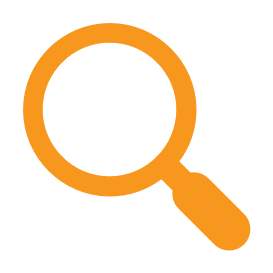
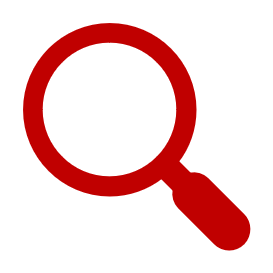
redesigning

Changed region(s): [[0.0586, 0.0586, 0.9377, 0.9377]]

diff --git a/frontend/src/views/LoginView.vue b/frontend/src/views/LoginView.vue
@@ -19,7 +19,7 @@ const login = () => {
     <span class="text"
       >please log in
       <p>to experience the full fun of</p>
-      <p>PongKing</p>
+      <p>christmasballs</p>
     </span>
     <div
       v-if="!userStore.isLoggedIn && !userStore.require2FAVerify"
@@ -63,7 +63,7 @@ const login = () => {
   text-decoration: none;
   border-radius: 20px;
   color: white;
-  background-color: #f8971d;
+  background-color: #c00000;
   padding: 10px;
   align-content: center;
   cursor: pointer;
@@ -78,7 +78,7 @@ body {
   justify-content: center;
   align-items: center;
   min-height: 10vh;
-  background: #f8971d;
+  background: #c00000;
 }
 
 button {
@@ -93,7 +93,7 @@ button {
   font-size: 2vw;
   font-weight: bolder;
   text-decoration: none;
-  background: linear-gradient(160deg, white, grey, grey, black);
+  background: #c00000;
   text-shadow: 0px 0px 2px rgba(0, 0, 0, 0.5);
   transition: 0.3s;
 }
@@ -101,7 +101,7 @@ button {
 button:hover {
   border: 2px outset #ddd;
   color: white;
-  background: linear-gradient(160deg, white, #f8971d, #f8971d, black);
+  background: linear-gradient(160deg, white, #c00000, #c00000, black);
   text-shadow: 0px 0px 4px #202020;
   box-shadow: 0 0 10px #fff, 0 0 40px #fff, 0 0 80px #fff;
   transition-delay: 0.2s;

diff --git a/frontend/src/components/chat/chat/ParentChatComponent.vue b/frontend/src/components/chat/chat/ParentChatComponent.vue
@@ -69,23 +69,24 @@ function sendMsg() {
 .parent {
   display: flex;
   flex-direction: column;
-  border: 1px solid #202020;
+  border: 1px solid gray;
   height: inherit;
   width: 60vw;
 }
 .chatname {
-  color: #f8971d;
+  color: #c00000;
   padding: 1vw;
   font-size: 1vw;
 }
 .messages {
   height: 100%;
-  border-top: 1px solid #202020;
-  border-bottom: 1px solid #202020;
+  border-top: 1px solid gray;
+  border-bottom: 1px solid grey;
   font-size: 1vw;
   padding: 0.5vw;
   overflow-y: scroll;
   overflow-wrap: break-word;
+  color: white;
 }
 .lower {
   display: flex;
@@ -99,7 +100,7 @@ function sendMsg() {
   text-decoration: none;
   border-radius: 5px;
   color: black;
-  background-color: #f8971d;
+  background-color: #c00000;
   font-size: 1vw;
   border-color: transparent;
   cursor: pointer;

diff --git a/frontend/src/components/globalUse/NavbarComponent.vue b/frontend/src/components/globalUse/NavbarComponent.vue
@@ -9,13 +9,8 @@ const userStore = useUserStore();
 <template>
   <div class="column1">
     <router-link to="/" class="columncontent">
-      <img
-        alt="page logo"
-        class="logo"
-        src="@/assets/pongking_boi.svg"
-        height="50"
-      />
-      <span>pongking</span>
+      <img alt="page logo" class="logo" src="@/assets/xmas.png" height="50" />
+      <span>christmasballs</span>
     </router-link>
   </div>
   <div class="column2">
@@ -84,13 +79,13 @@ li {
 }
 li a {
   display: block;
-  color: #f8971d;
+  color: #c00000;
   text-align: center;
   padding: 1% 1%;
   text-decoration: none;
 }
 li a:hover {
-  background-color: #f8971d;
-  color: black;
+  background-color: #c00000;
+  color: white;
 }
 </style>

diff --git a/frontend/src/components/profile/profile/ProfileComponent.vue b/frontend/src/components/profile/profile/ProfileComponent.vue
@@ -120,6 +120,7 @@ UserService.findLeaders()
 <style scoped>
 .title {
   font-size: 2vw;
+  color: white;
 }
 
 .onSwitch {
@@ -149,7 +150,7 @@ UserService.findLeaders()
   padding: 10px 10px 1%;
   border-width: 1px;
   border-style: solid;
-  border-image: linear-gradient(to bottom, white, #f8971d, #f8971d, #202020) 1;
+  border-image: linear-gradient(to bottom, #c00000, #c00000, white, gray) 1;
 }
 
 .infoBox {
@@ -161,7 +162,7 @@ UserService.findLeaders()
 }
 
 .username {
-  color: #f8971d;
+  color: #c00000;
   font-size: 2vw;
 }
 
@@ -221,7 +222,7 @@ UserService.findLeaders()
 }
 
 input:checked + .slider {
-  background-color: #f8971d;
+  background-color: #c00000;
   -webkit-transition: 0.5s;
   transition: 0.5s;
 }

diff --git a/frontend/src/components/chat/peoples/ChildPeopleComponent.vue b/frontend/src/components/chat/peoples/ChildPeopleComponent.vue
@@ -24,7 +24,7 @@ const router = useRouter();
 const userStore = useUserStore();
 
 const activeChat = computed(() => {
-  if (props.highlight) return { color: '#f8971d' };
+  if (props.highlight) return { color: '#c00000' };
   return { color: 'white' };
 });
 
@@ -233,6 +233,7 @@ const onChat = (username: string) => {
   margin-right: 1em;
   cursor: pointer;
   font-size: 1.5vw;
+  color: white;
 }
 
 .client {
@@ -269,8 +270,8 @@ const onChat = (username: string) => {
 .butt {
   text-decoration: none;
   border-radius: 5px;
-  color: black;
-  background-color: #f8971d;
+  color: white;
+  background-color: #c00000;
   cursor: pointer;
   font-size: 0.5vw;
   border-color: transparent;

diff --git a/frontend/src/components/chat/channels/ChildChannelComponent.vue b/frontend/src/components/chat/channels/ChildChannelComponent.vue
@@ -10,14 +10,14 @@ const props = defineProps<{
 }>();
 
 const activeChannel = computed(() => {
-  if (props.channelName === props.selectedChannel) return { color: '#f8971d' };
+  if (props.channelName === props.selectedChannel) return { color: '#c00000' };
   if (!props.isUserInside) return { color: 'grey' };
   else return { color: 'white' };
 });
 
 const activePicture = computed(() => {
   if (props.channelName === props.selectedChannel)
-    return { 'border-color': '#f8971d' };
+    return { 'border-color': '#c00000' };
   if (!props.isUserInside) return { 'border-color': 'grey' };
   else return { 'border-color': 'white' };
 });

diff --git a/frontend/src/components/chat/channels/ParentChannelsComponent.vue b/frontend/src/components/chat/channels/ParentChannelsComponent.vue
@@ -78,13 +78,13 @@ function userInChannel(input: Channel) {
   flex-direction: column;
   padding: 0.5vw;
   padding-bottom: 0.5vw;
-  border: 1px solid #202020;
+  border: 1px solid grey;
 }
 .text {
   display: flex;
   font-size: 1vw;
   padding-bottom: 0.5vw;
-  color: #f8971d;
+  color: #c00000;
   justify-content: space-between;
 }
 .list {
@@ -99,8 +99,8 @@ function userInChannel(input: Channel) {
 button {
   text-decoration: none;
   border-radius: 5px;
-  color: black;
-  background-color: #f8971d;
+  color: white;
+  background-color: #c00000;
   cursor: pointer;
   font-size: 0.8vw;
   border-color: transparent;

diff --git a/frontend/src/components/chat/options/ParentOptionsComponent.vue b/frontend/src/components/chat/options/ParentOptionsComponent.vue
@@ -264,14 +264,14 @@ function getChannelUserStatus(client: User) {
   display: flex;
   flex-direction: column;
   padding: 0.5vw;
-  border: 1px solid #202020;
+  border: 1px solid gray;
   height: inherit;
   width: 15vw;
 }
 
 .headerText {
   font-size: 1vw;
-  color: #f8971d;
+  color: #c00000;
 }
 
 .list {
@@ -299,8 +299,8 @@ function getChannelUserStatus(client: User) {
 .button {
   text-decoration: none;
   border-radius: 5px;
-  color: black;
-  background-color: #f8971d;
+  color: white;
+  background-color: #c00000;
   cursor: pointer;
   font-size: 0.8vw;
   border-color: transparent;

diff --git a/frontend/src/components/chat/requests/FriendRequestComponent.vue b/frontend/src/components/chat/requests/FriendRequestComponent.vue
@@ -66,8 +66,8 @@ const declineButton = async () => {
 .acceptButton {
   text-decoration: none;
   border-radius: 5px;
-  color: black;
-  background-color: #f8971d;
+  color: white;
+  background-color: #c00000;
   cursor: pointer;
   font-size: 0.8vw;
   border-color: transparent;
@@ -78,7 +78,7 @@ const declineButton = async () => {
   text-decoration: none;
   border-radius: 5px;
   color: white;
-  background-color: #202020;
+  background-color: black;
   cursor: pointer;
   font-size: 0.8vw;
   border-color: transparent;

diff --git a/frontend/src/components/chat/requests/GameRequestComponent.vue b/frontend/src/components/chat/requests/GameRequestComponent.vue
@@ -68,8 +68,8 @@ const declineButton = async () => {
 .acceptButton {
   text-decoration: none;
   border-radius: 5px;
-  color: black;
-  background-color: #f8971d;
+  color: white;
+  background-color: #c00000;
   cursor: pointer;
   font-size: 0.8vw;
   border-color: transparent;
@@ -80,7 +80,7 @@ const declineButton = async () => {
   text-decoration: none;
   border-radius: 5px;
   color: white;
-  background-color: #202020;
+  background-color: black;
   cursor: pointer;
   font-size: 0.8vw;
   border-color: transparent;

diff --git a/frontend/src/components/profile/achievement/ChildAchievementComponent.vue b/frontend/src/components/profile/achievement/ChildAchievementComponent.vue
@@ -8,7 +8,7 @@ defineProps<{
 
 <template>
   <div class="achieve">
-    <img alt="page logo" class="logo" src="@/assets/pongking_boi.svg" />
+    <img alt="page logo" class="logo" src="@/assets/xmas.png" />
     <p class="infoBox">
       {{ header }}: <span class="info"> {{ text }}</span>
     </p>
@@ -39,7 +39,7 @@ defineProps<{
   /* grid-column: 1 / 2; */
   object-position: 50% 0%;
   border-radius: 50%;
-  border: 1px solid #f8971d;
+  border: 1px solid #c00000;
   height: 5vw;
   width: 5vw;
 }

diff --git a/frontend/src/components/stream/ChildStreamComponent.vue b/frontend/src/components/stream/ChildStreamComponent.vue
@@ -16,7 +16,7 @@ const hasScores = computed(() => {
 </script>
 
 <template>
-  <router-link :to="`/stream/${gameId}`">
+  <router-link class="routerlink" :to="`/stream/${gameId}`">
     <div>
       <img class="thumbnail" src="@/assets/pong.png" />
       <span v-if="hasScores" class="playernames">
@@ -28,6 +28,10 @@ const hasScores = computed(() => {
 </template>
 
 <style scoped>
+.routerlink {
+  text-decoration: none;
+}
+
 div {
   display: grid;
   margin: auto;
